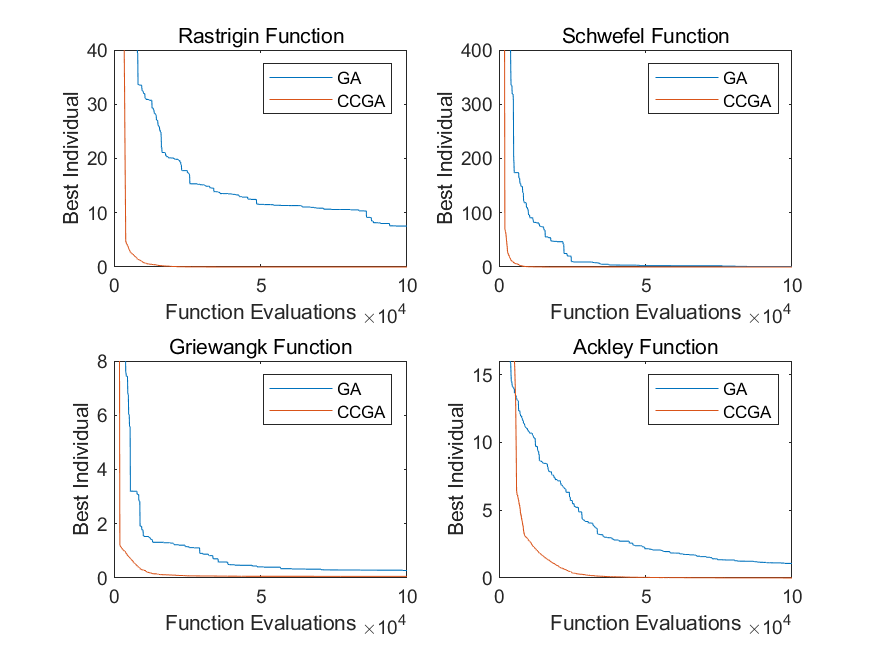
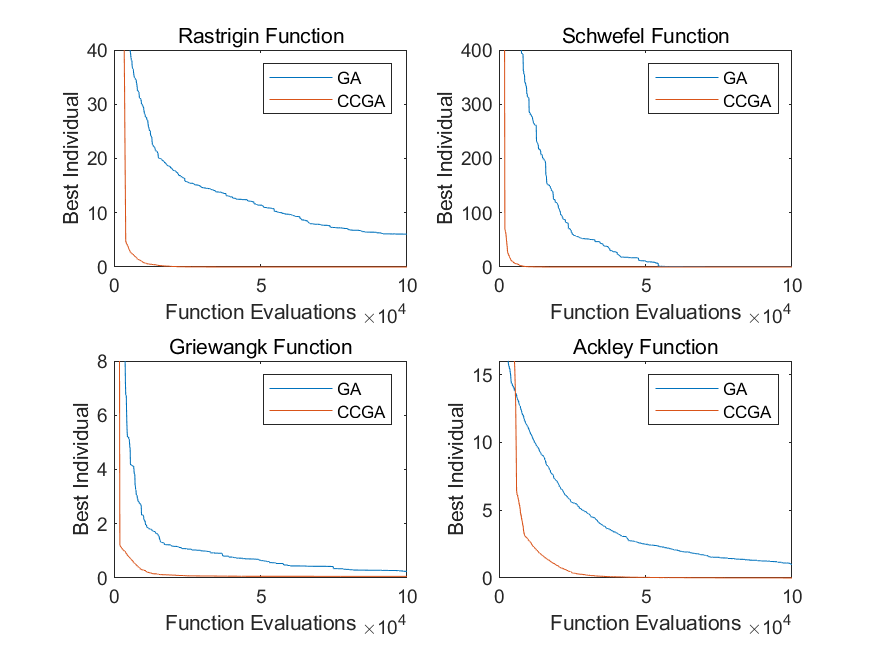
Add draft of reimplementation results section

diff --git a/Report/content/Reimplementation.tex b/Report/content/Reimplementation.tex
@@ -16,10 +16,10 @@ These classes implement generic versions of their algorithm so must be provided 
 The experiment can then be run using the \texttt{run\_experiment()} method.
 The \texttt{CCGAExperiment} class shares the same overall structure as the \texttt{GAExperiment} class but has been upgraded with the infrastructure to store, evolve, and evaluate multiple populations.
 
-The experiments are performed in the file \texttt{main_data_gather.py} (see Appendix \ref{lst:main_data_gather}).
+The experiments are performed in the file \texttt{main\_data\_gather.py} (see Appendix \ref{lst:main_data_gather}).
 This acts as the project's main file.
 The user specifies which algorithms should be tested and the number of runs the results should be averaged over.
 The results are saved to txt files for plotting.
 The computing resources available to this project were limited due to working from home so results of each experiment were averaged over 15 runs rather than the 50 in the original paper.
 
-The MATLAB script \texttt{combined_plots.m} (see Appendix \ref{lst:combined_plots}) was used to produce the reimplemented figure.
+The MATLAB script \texttt{combined\_plots.m} (see Appendix \ref{lst:combined_plots}) was used to produce the reimplemented figure.

diff --git a/Report/content/ReimplementationResults.tex b/Report/content/ReimplementationResults.tex
@@ -1,1 +1,19 @@
 \section{Reimplementation Results} \label{sec:reimplementation-results}
+
+Figure \ref{fig:original_plot} shows the results from the original paper and Figure \ref{fig:combined_plot} shows the reimplementation results.
+It can be seen that both plots show the same trajectory for the fitness over the series of function evaluations.
+The reimplementation plots show slightly rougher due to the lower number of experiments used to calculate the average performance. 
+
+\begin{figure}[ht!]
+    \centering 
+    \includegraphics[width=0.9\textwidth]{img/original_plot.png}
+    \caption{The figure this assignment aims to reimplement. Reproduced from\cite{original-paper}.}
+    \label{fig:original_plot}
+  \end{figure}
+
+  \begin{figure}[ht!]
+    \centering 
+    \includegraphics[width=0.9\textwidth]{img/combined_plot.png}
+    \caption{The figure produced by this reimplementation.}
+    \label{fig:combined_plot}
+  \end{figure}
